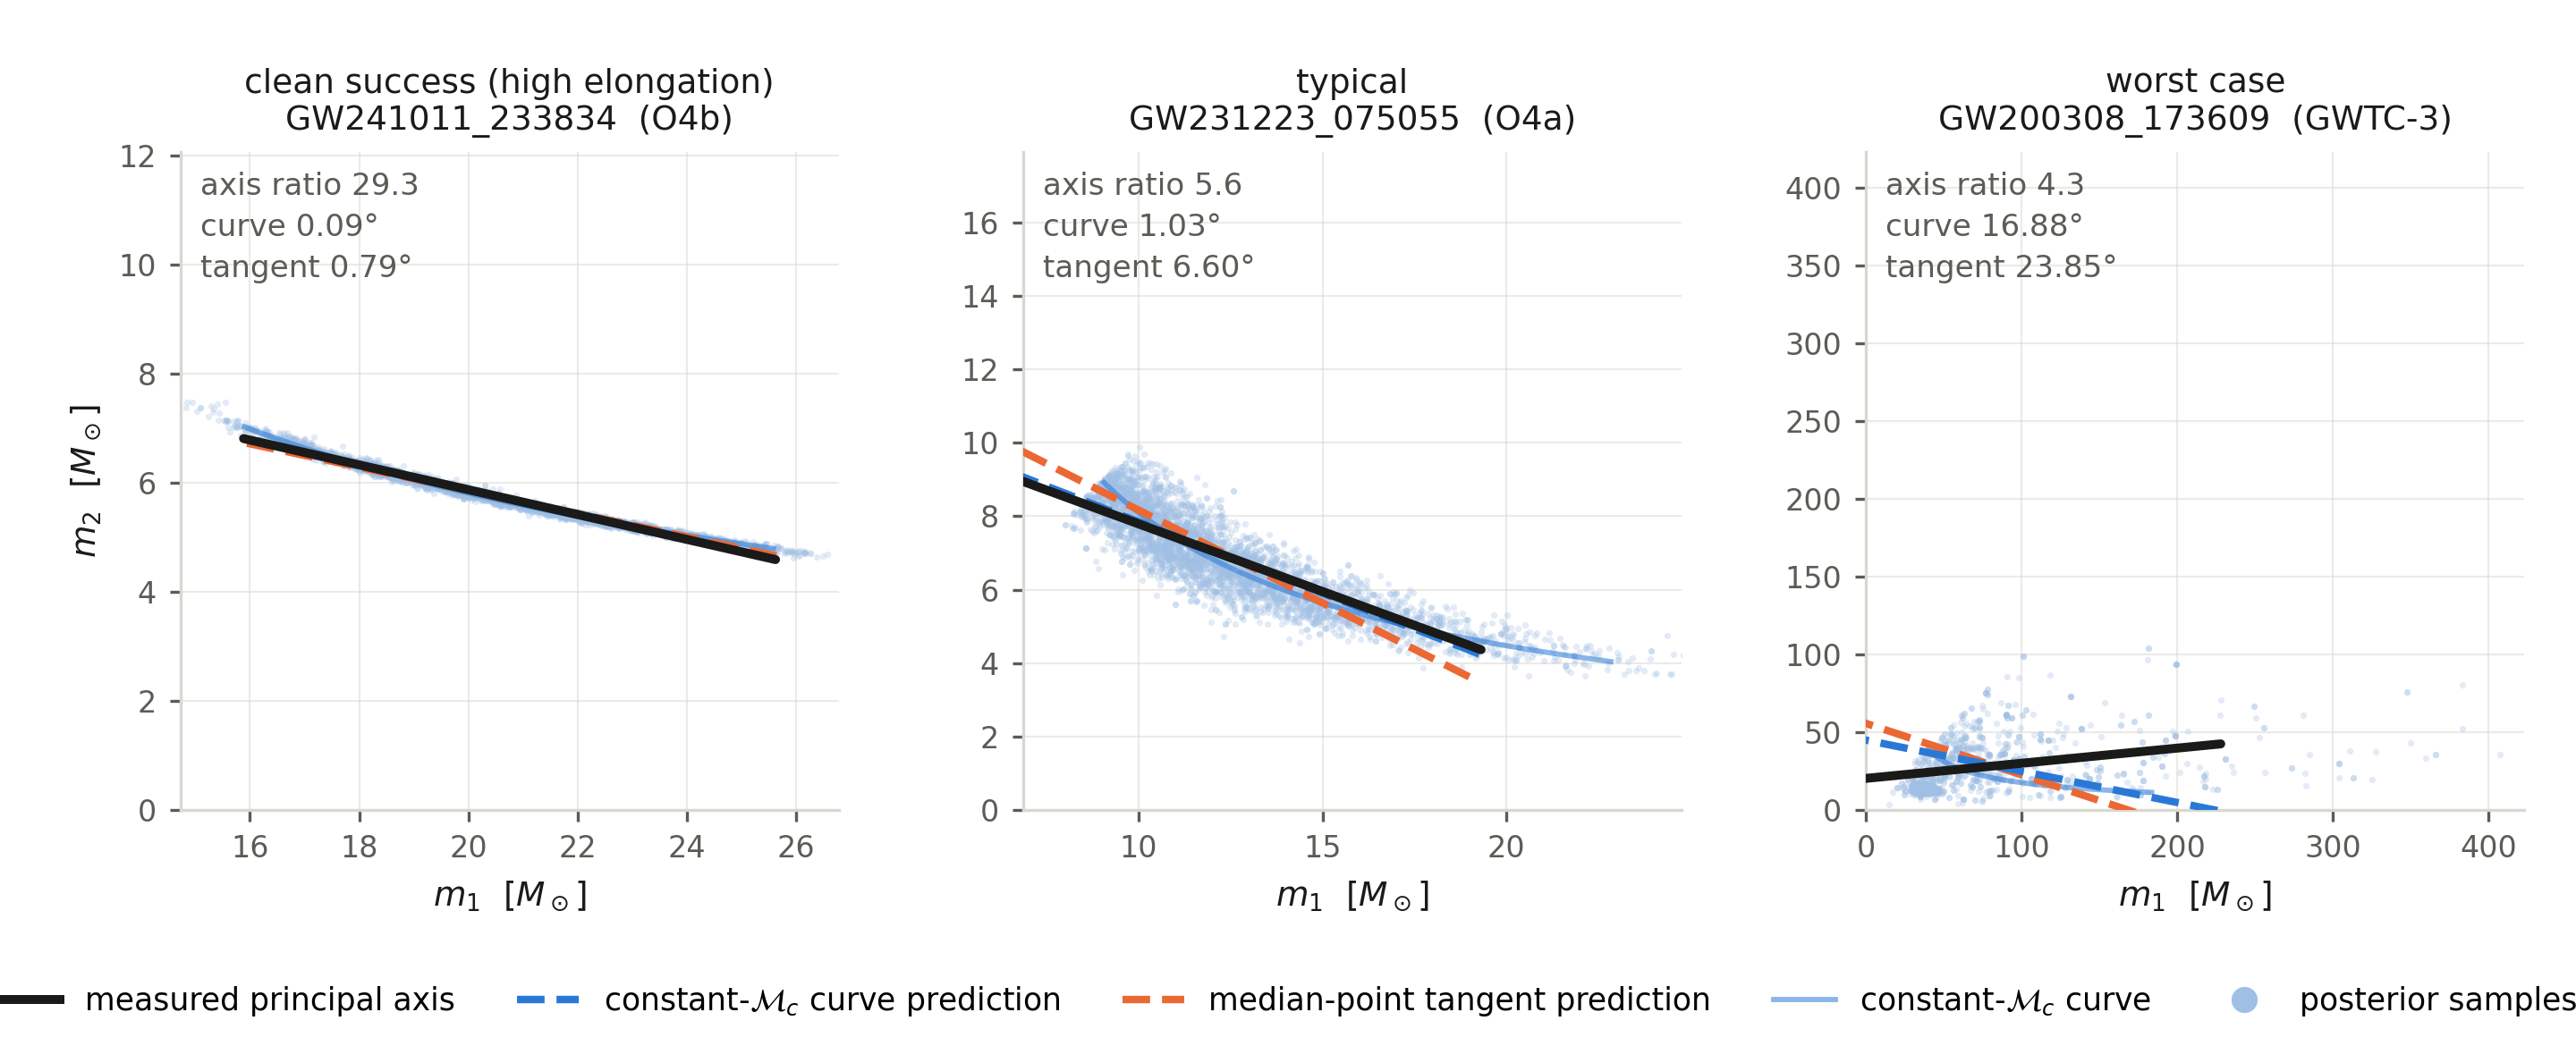
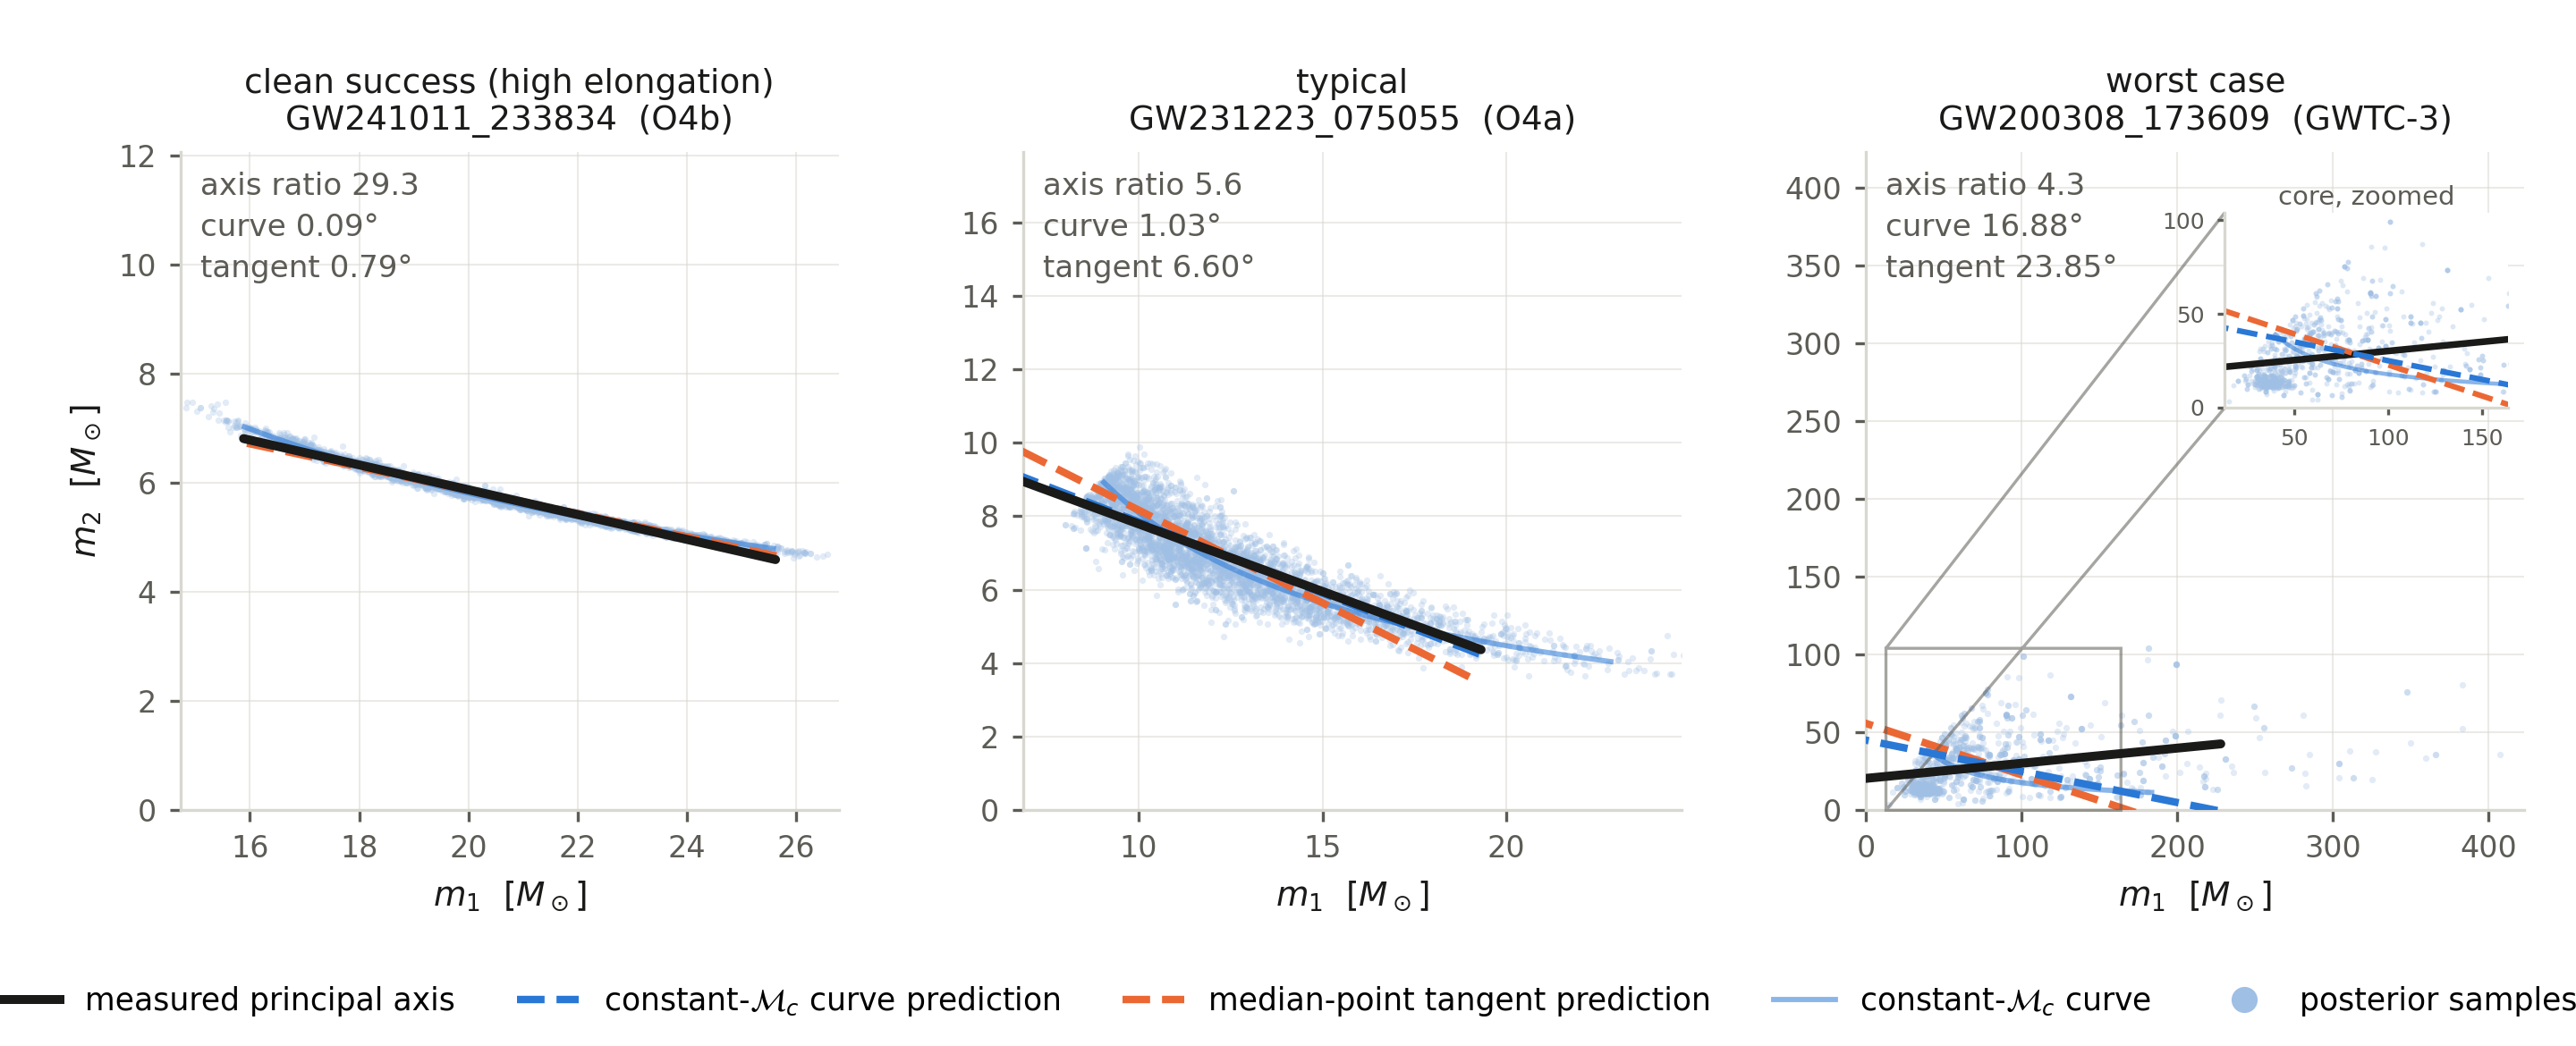
Close the last two review items: catalog citations verified, worst-case panel answered
CATALOG PAPERS (was: cited by Zenodo record only, coordinates unverified)

Both looked up and checked at their arXiv abstract pages -- title and collaboration
author form confirmed for each:
  GWTC-4.0  arXiv:2508.18082
  GWTC-5.0  arXiv:2605.27225

docs/NOVELTY.md carried 2508.1808**0**, which is a different GWTC-4.0 companion paper.
The catalog paper is 1808**2**. Exactly the transposition the verify-before-citing rule
exists to catch; NOVELTY.md now carries the correction inline. Corroborating detail: the
GWTC-4.0 abstract reports 86 candidates with FAR < 1/yr, which is precisely the O4a event
count this analysis scores (n_scored = 86).

Neither shows a journal reference yet; both cited as preprints, to be upgraded if they
publish before submission.

FIGURE 2A PANEL 3 (review finding F7)

The reviewer asked for a rescale or a move to supplementary. Rescaling alone would have
been cosmetic, because the question the panel actually raises is whether the 16.9 deg
worst case is a real failure or an outlier dragging the sample covariance -- that
posterior has a median m1 of 60 Msun and a tail to 613.

Measured it. Trimming to the central 90% of samples leaves the error at 16.4-18.6 deg. It
is NOT a tail artifact; the curve genuinely misses this event. Recorded in the sidecar,
stated in the generated caption, and locked by a test that fails if trimming ever drops it
below 10 deg (which would mean the caption's claim had become false).
[…]

diff --git a/src/fig2a_posterior_geometry_examples.py b/src/fig2a_posterior_geometry_examples.py
@@ -164,11 +164,66 @@ def build():
             ax.spines[s].set_color(GRID)
         ax.tick_params(colors=MUTED, labelsize=8, length=3)
 
-        side["panels"].append({
+        rec_panel = {
             "panel": label, "selection_rule": rule, "event": r["event"], "catalog": r["catalog"],
             "waveform_group": r["group"], "axr": r["axr"], "curve_err_deg": r["curve_err"],
             "tangent_err_deg": r["tangent_err"], "n_samples_plotted": int(len(m1)),
-            "thickness_adjusted_drawn": False})
+            "thickness_adjusted_drawn": False}
+
+        # The worst case is a heavy-tailed, high-mass posterior: the dense core occupies a small
+        # corner of a panel whose limits are set by a long tail, so the geometry is unreadable at
+        # full scale (raised in external review). Two responses, neither cosmetic:
+        #   (a) a zoom inset on the core, so the reader can actually see the three directions;
+        #   (b) a measured check that the failure is NOT a tail artifact -- recorded in the sidecar.
+        if label.startswith("worst"):
+            trims = {}
+            for pct in (100, 99, 95, 90):
+                if pct == 100:
+                    sel = np.ones(len(m1), bool)
+                else:
+                    lo, hi = 100 - pct, pct
+                    sel = ((m1 >= np.percentile(m1, lo)) & (m1 <= np.percentile(m1, hi)) &
+                           (m2 >= np.percentile(m2, lo)) & (m2 <= np.percentile(m2, hi)))
+                ps, ar, _ = psi_axr_rho(m1[sel], m2[sel])
+                trims[f"{100 - pct if pct < 100 else 0}-{pct}"] = {
+                    "n": int(sel.sum()), "axr": float(ar),
+                    "curve_err_deg": float(abs(adiff(curve_psi(mc, q), ps)))}
+            errs = [v["curve_err_deg"] for v in trims.values()]
+            rec_panel["tail_sensitivity"] = {
+                "percentile_trims": trims,
+                "curve_err_range_deg": [float(min(errs)), float(max(errs))],
+                "verdict": ("NOT a tail artifact: trimming to the central 90%% of samples leaves the "
+                            "error within %.1f-%.1f deg, so the worst case is a genuine failure of "
+                            "the curve model, not an outlier dragging the sample covariance."
+                            % (min(errs), max(errs)))}
+
+            zx = np.percentile(m1, [2, 88])
+            zy = np.percentile(m2, [2, 88])
+            zm, zn = 0.5 * (zx[0] + zx[1]), 0.5 * (zy[0] + zy[1])
+            zh = 0.62 * max(zx[1] - zx[0], zy[1] - zy[0], 1e-6)
+            ins = ax.inset_axes([0.545, 0.545, 0.43, 0.43])
+            ins.scatter(m1, m2, s=2, color=SAMPLE_C, alpha=0.35, linewidths=0, rasterized=True)
+            ins.plot(c1, qq * c1, color=CURVE_C, lw=1.1, alpha=0.55)
+            for ang, col, ls, lw in ((v["psi"], MEAS_C, "-", 1.8),
+                                     (tangent_angles(v["m1m"], v["m2m"])[0], TANGENT_C, "--", 1.5),
+                                     (curve_psi(mc, q), CURVE_C, "--", 1.5)):
+                dx, dy = math.cos(math.radians(ang)), math.sin(math.radians(ang))
+                ins.plot([cx - L * dx, cx + L * dx], [cy - L * dy, cy + L * dy],
+                         color=col, ls=ls, lw=lw, solid_capstyle="round")
+            ins.set_xlim(max(zm - zh, 0.0), zm + zh)
+            ins.set_ylim(max(zn - zh, 0.0), zn + zh)
+            ins.set_aspect("equal", adjustable="box")
+            ins.tick_params(colors=MUTED, labelsize=6, length=2)
+            for s in ("top", "right"):
+                ins.spines[s].set_visible(False)
+            for s in ("left", "bottom"):
+                ins.spines[s].set_color(GRID)
+            ins.set_title("core, zoomed", fontsize=7, color=MUTED, pad=2)
+            ax.indicate_inset_zoom(ins, edgecolor=MUTED, alpha=0.55, lw=0.8)
+            rec_panel["inset"] = {"shows": "central core (2-88 percentile), same three directions",
+                                  "why": "full-scale panel is dominated by a long high-mass tail"}
+
+        side["panels"].append(rec_panel)
 
     axes[0].set_ylabel("$m_2$  [$M_\\odot$]", fontsize=9, color=INK)
     fig.legend(handles=[

diff --git a/tests/test_fig2a.py b/tests/test_fig2a.py
@@ -105,3 +105,19 @@ def test_rendered_image_is_non_empty_and_not_blank():
     assert a.size > 0
     assert float(a.std()) > 5.0, "rendered image looks blank"
     assert float((a < 250).mean()) > 0.01, "almost no ink on the canvas"
+
+
+def test_worst_case_carries_a_tail_sensitivity_check():
+    """External review asked for the worst-case panel to be rescaled. Rescaling alone would have been
+    cosmetic: the question it raises is whether the 16.9 deg failure is real or an outlier dragging the
+    sample covariance. The figure must answer that, not just look better."""
+    import json, os
+    side = json.load(open(os.path.join(ROOT, "figures/fig2a_posterior_geometry_examples.json")))
+    worst = next(p for p in side["panels"] if p["panel"].startswith("worst"))
+    assert "inset" in worst, "worst-case panel must carry a zoom inset on the dense core"
+    ts = worst["tail_sensitivity"]
+    assert set(ts["percentile_trims"]) >= {"0-100", "1-99", "5-95", "10-90"}
+    lo, hi = ts["curve_err_range_deg"]
+    assert lo > 10.0, ("if trimming ever brings the worst case below ~10 deg it IS a tail artifact "
+                       "and the caption's claim must be rewritten")
+    assert "NOT a tail artifact" in ts["verdict"]

diff --git a/paper/manuscript.tex b/paper/manuscript.tex
@@ -471,8 +471,8 @@ scatter of a few degrees, the dominant per-event systematic.
 data; it uses no proprietary or embargoed products, and generates no new observational data. Three
 releases are used, all obtained from the Gravitational Wave Open Science Center (GWOSC) \citep{GWOSCthree} and Zenodo:
 GWTC-2.1 \citep{GWTC21} and GWTC-3 \citep{GWTC3} posterior samples; the GWTC-4.0/O4a posterior-sample
-release (Zenodo record 16053484); and the GWTC-5.0/O4b posterior-sample release (Zenodo records 20276106
-and 20348006). Record numbers, file counts and checksummed download procedures for all three are given in
+release \citep{GWTC4} (Zenodo record 16053484); and the GWTC-5.0/O4b posterior-sample release
+\citep{GWTC5} (Zenodo records 20276106 and 20348006). Record numbers, file counts and checksummed download procedures for all three are given in
 the accompanying data-availability documentation. GWOSC data are distributed under a Creative Commons
 Attribution licence, and we use them under those terms.
 
@@ -526,6 +526,12 @@ S.~A.~Usman, \emph{Phys.\ Rev.\ D} \textbf{108}, 082006 (2023).
 D.~Watarai, arXiv:2605.03576 (2026).
 \bibitem[LVK(2023)]{GWOSCthree} R.~Abbott et al. (KAGRA, LIGO Scientific and Virgo Collaborations),
 \emph{Astrophys.\ J.\ Suppl.\ Ser.} \textbf{267}, 29 (2023), arXiv:2302.03676.
+\bibitem[LVK(2025)]{GWTC4} The LIGO Scientific, Virgo and KAGRA Collaborations,
+\emph{GWTC-4.0: Updating the Gravitational-Wave Transient Catalog with Observations from the First Part
+of the Fourth LIGO--Virgo--KAGRA Observing Run}, arXiv:2508.18082 (2025).
+\bibitem[LVK(2026c)]{GWTC5} The LIGO Scientific, Virgo and KAGRA Collaborations,
+\emph{GWTC-5.0: Observations from the Second Part of the Fourth LIGO--Virgo--KAGRA Observing Run and
+Updates to the Gravitational-Wave Transient Catalog}, arXiv:2605.27225 (2026).
 \bibitem[LVK(2026a)]{GWOSCfourA} The LIGO Scientific, Virgo and KAGRA Collaborations,
 \emph{Open Data from LIGO, Virgo, and KAGRA through the First Part of the Fourth Observing Run},
 \emph{Astrophys.\ J.} \textbf{1004}, 2329 (2026).

diff --git a/src/build_manuscript_figures.py b/src/build_manuscript_figures.py
@@ -44,6 +44,8 @@ def main():
     ap = "; ".join(_panel(p) for p in a["panels"])
     tw = a["recorded_but_not_plotted"]
 
+    _worst = next(p for p in a["panels"] if p["panel"].startswith("worst"))
+    ts = _worst["tail_sensitivity"]["curve_err_range_deg"]
     tex = f"""% AUTO-GENERATED by src/build_manuscript_figures.py -- do not edit by hand.
 % Every number below is read from a figure sidecar JSON, so captions cannot drift from the figures.
 
@@ -79,7 +81,11 @@ successes. Across all elongated events the tangent in fact beats the curve for
 ${tw['tangent_beats_curve_fraction_all_elongated']*100:.0f}\\%$ of events, rising to
 ${tw['tangent_beats_curve_fraction_axr_ge_8']*100:.0f}\\%$ above $\\mathrm{{axr}}=8$, where the curve's
 advantage shrinks. No thickness-adjusted axis is drawn: finite posterior thickness is supported
-out-of-sample but arc-varying thickness is \\emph{{not}} established (Sec.~\\ref{{sec:residual}}).}}
+out-of-sample but arc-varying thickness is \\emph{{not}} established (Sec.~\\ref{{sec:residual}}). The
+worst-case panel is a heavy-tailed, high-mass posterior whose dense core occupies a small part of the
+plotted range, so it carries a zoom inset on that core; the three directions there are the same lines,
+not a re-fit. That failure is \\emph{{not}} an outlier artifact: trimming to the central $90\\%$ of samples
+leaves the error at ${ts[0]:.1f}$--${ts[1]:.1f}^\\circ$, so the curve genuinely misses this event.}}
 """
     os.makedirs(os.path.dirname(OUT), exist_ok=True)
     open(OUT, "w").write(tex)

diff --git a/paper/fig_captions.tex b/paper/fig_captions.tex
@@ -33,4 +33,8 @@ successes. Across all elongated events the tangent in fact beats the curve for
 $16\%$ of events, rising to
 $31\%$ above $\mathrm{axr}=8$, where the curve's
 advantage shrinks. No thickness-adjusted axis is drawn: finite posterior thickness is supported
-out-of-sample but arc-varying thickness is \emph{not} established (Sec.~\ref{sec:residual}).}
+out-of-sample but arc-varying thickness is \emph{not} established (Sec.~\ref{sec:residual}). The
+worst-case panel is a heavy-tailed, high-mass posterior whose dense core occupies a small part of the
+plotted range, so it carries a zoom inset on that core; the three directions there are the same lines,
+not a re-fit. That failure is \emph{not} an outlier artifact: trimming to the central $90\%$ of samples
+leaves the error at $16.4$--$18.6^\circ$, so the curve genuinely misses this event.}

diff --git a/docs/DATA_AVAILABILITY.md b/docs/DATA_AVAILABILITY.md
@@ -9,8 +9,8 @@ embargoed products and generates no new observational data. Three releases enter
 |---|---|---|---|
 | GWTC-2.1 posterior samples | GWOSC / Zenodo (per-event) | Abbott et al., PRD **109**, 022001 (2024), arXiv:2108.01045 | training catalog (with GWTC-3) |
 | GWTC-3 posterior samples | GWOSC / Zenodo (per-event) | Abbott et al., PRX **13**, 041039 (2023), arXiv:2111.03606 | training catalog |
-| GWTC-4.0 / O4a PE | Zenodo **16053484** | the Zenodo record (see caveat below) | locked out-of-sample test 1 |
-| GWTC-5.0 / O4b PE | Zenodo **20276106**, **20348006** | the Zenodo records (see caveat below) | locked out-of-sample test 2 |
+| GWTC-4.0 / O4a PE | Zenodo **16053484** | arXiv:**2508.18082** + the Zenodo record | locked out-of-sample test 1 |
+| GWTC-5.0 / O4b PE | Zenodo **20276106**, **20348006** | arXiv:**2605.27225** + the Zenodo records | locked out-of-sample test 2 |
 
 Plus the GWOSC **data papers**, which is the citation GWOSC itself asks for (verified at
 <https://gwosc.org/acknowledgement/>, 2026-07-21). One per observing run, and this analysis spans three:
@@ -24,12 +24,20 @@ Plus the GWOSC **data papers**, which is the citation GWOSC itself asks for (ver
 > **This was a real gap.** The manuscript initially cited only the O3 data paper while using O4a and O4b
 > data. Both O4 papers are now cited, and a test fails if either citation disappears.
 
-> ⚠️ **Open citation item.** The GWTC-4.0 and GWTC-5.0 *catalog papers* are cited in the manuscript only
-> through their Zenodo data records, because their journal/arXiv coordinates have **not** been verified at
-> full text in this repo. `docs/NOVELTY.md` carries `arXiv:2508.18080` for GWTC-4.0 flagged as general
-> knowledge. Per the repo rule that nothing enters the manuscript on trust, the catalog-paper references
-> must be looked up and verified before submission. Data-record citation is correct and sufficient in the
-> meantime; a catalog paper reference is additionally expected by the collaboration and should be added.
+> ✅ **Closed 2026-07-21.** The GWTC-4.0 and GWTC-5.0 catalog papers are now cited, verified at their
+> arXiv abstract pages (title and collaboration author form checked for both):
+> **arXiv:2508.18082** — *GWTC-4.0: Updating the Gravitational-Wave Transient Catalog with Observations
+> from the First Part of the Fourth LIGO--Virgo--KAGRA Observing Run*; and
+> **arXiv:2605.27225** — *GWTC-5.0: Observations from the Second Part of the Fourth LIGO--Virgo--KAGRA
+> Observing Run and Updates to the Gravitational-Wave Transient Catalog*.
+>
+> Note `docs/NOVELTY.md` carried **2508.18080**, which is a *different* GWTC-4.0 companion paper. The
+> correct catalog reference is **18082**. That is exactly the kind of transposition the "verify before
+> citing" rule exists to catch. Corroborating detail: the GWTC-4.0 abstract reports 86 candidates with
+> FAR < 1/yr, which is precisely the O4a event count this analysis scores (`n_scored = 86`).
+>
+> Neither paper shows a journal reference yet; both are cited as arXiv preprints and should be upgraded
+> if they are published before submission.
 
 ### Licence and acknowledgment obligations
 

diff --git a/docs/NOVELTY.md b/docs/NOVELTY.md
@@ -19,7 +19,7 @@ near-constant-chirp-mass ("banana") contours. This is textbook and appears throu
   plane is central. **[Identity VERIFIED; that it *plots explicit constant-Mc curves* is UNVERIFIED — check
   the figures before citing for the visual. This is the likely intended anchor the pasted text meant.]**
 - GWTC catalog papers routinely show Mc–q / m1–m2 banana posteriors (GWTC-3 [arXiv:2111.03606], GWTC-4
-  [arXiv:2508.18080]). **[General knowledge; verify the exact sentences before quoting.]**
+  [arXiv:2508.18080]). **[CORRECTED 2026-07-21: the GWTC-4.0 *catalog* paper is arXiv:2508.18082, verified at the abstract page; 18080 is a different companion paper. See DATA_AVAILABILITY.md.]**
 - Rapid-classification / observable-feature PE constrains masses near constant-Mc lines: MNRAS 515, 5718;
   ["Simple parameter estimation using observable features" arXiv:2304.03731](https://arxiv.org/abs/2304.03731).
   **[UNVERIFIED — 2304.03731 surfaced as a possible close neighbor; read it before positioning against it.]**